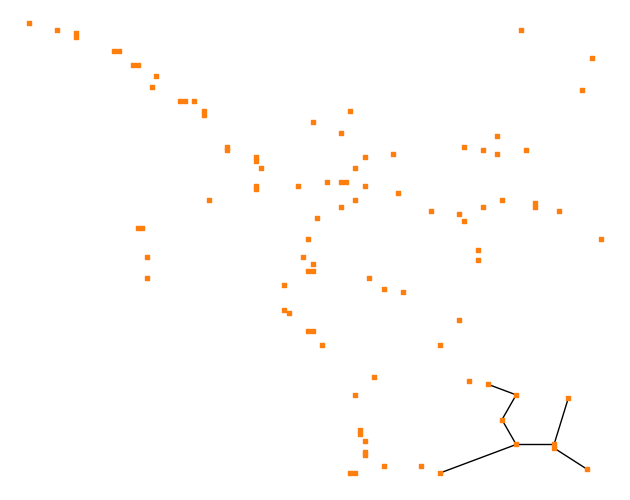
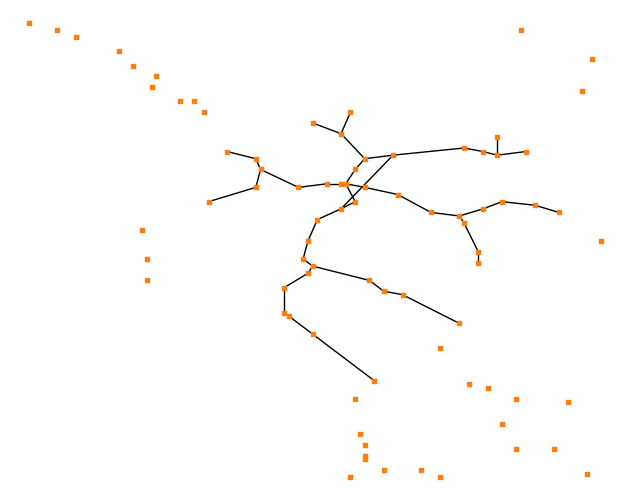
full network with out pheromone consideration

diff --git a/index.py b/index.py
@@ -2,11 +2,10 @@ from data_pp import filtered_df
 from slime.dish import Dish
 import matplotlib.pyplot as plt
 import networkx as nx
-from matplotlib.animation import FuncAnimation, PillowWriter
 
 stations = filtered_df
 
-start_loc = (stations.at[20, "x"], stations.at[20, "y"])
+start_loc = (stations.at[15, "x"], stations.at[15, "y"])
 dish = Dish(
     dish_shape=(max(stations.x) + 10, max(stations.y) + 10),
     foods=stations,
@@ -16,7 +15,7 @@ dish = Dish(
     decay=0.2,
 )
 
-dish.animate(frames=50, interval=100, filename="50steps.gif")
+dish.animate(frames=350, interval=100, filename="350steps.gif")
 plt.show()
 
 fig = plt.figure(figsize=(6.3, 5))
@@ -28,4 +27,4 @@ nx.draw(
     node_size=12,
     with_labels=False,
 )
-plt.savefig("slime_graph_50steps.png")
+plt.savefig("slime_graph_350steps.png")
